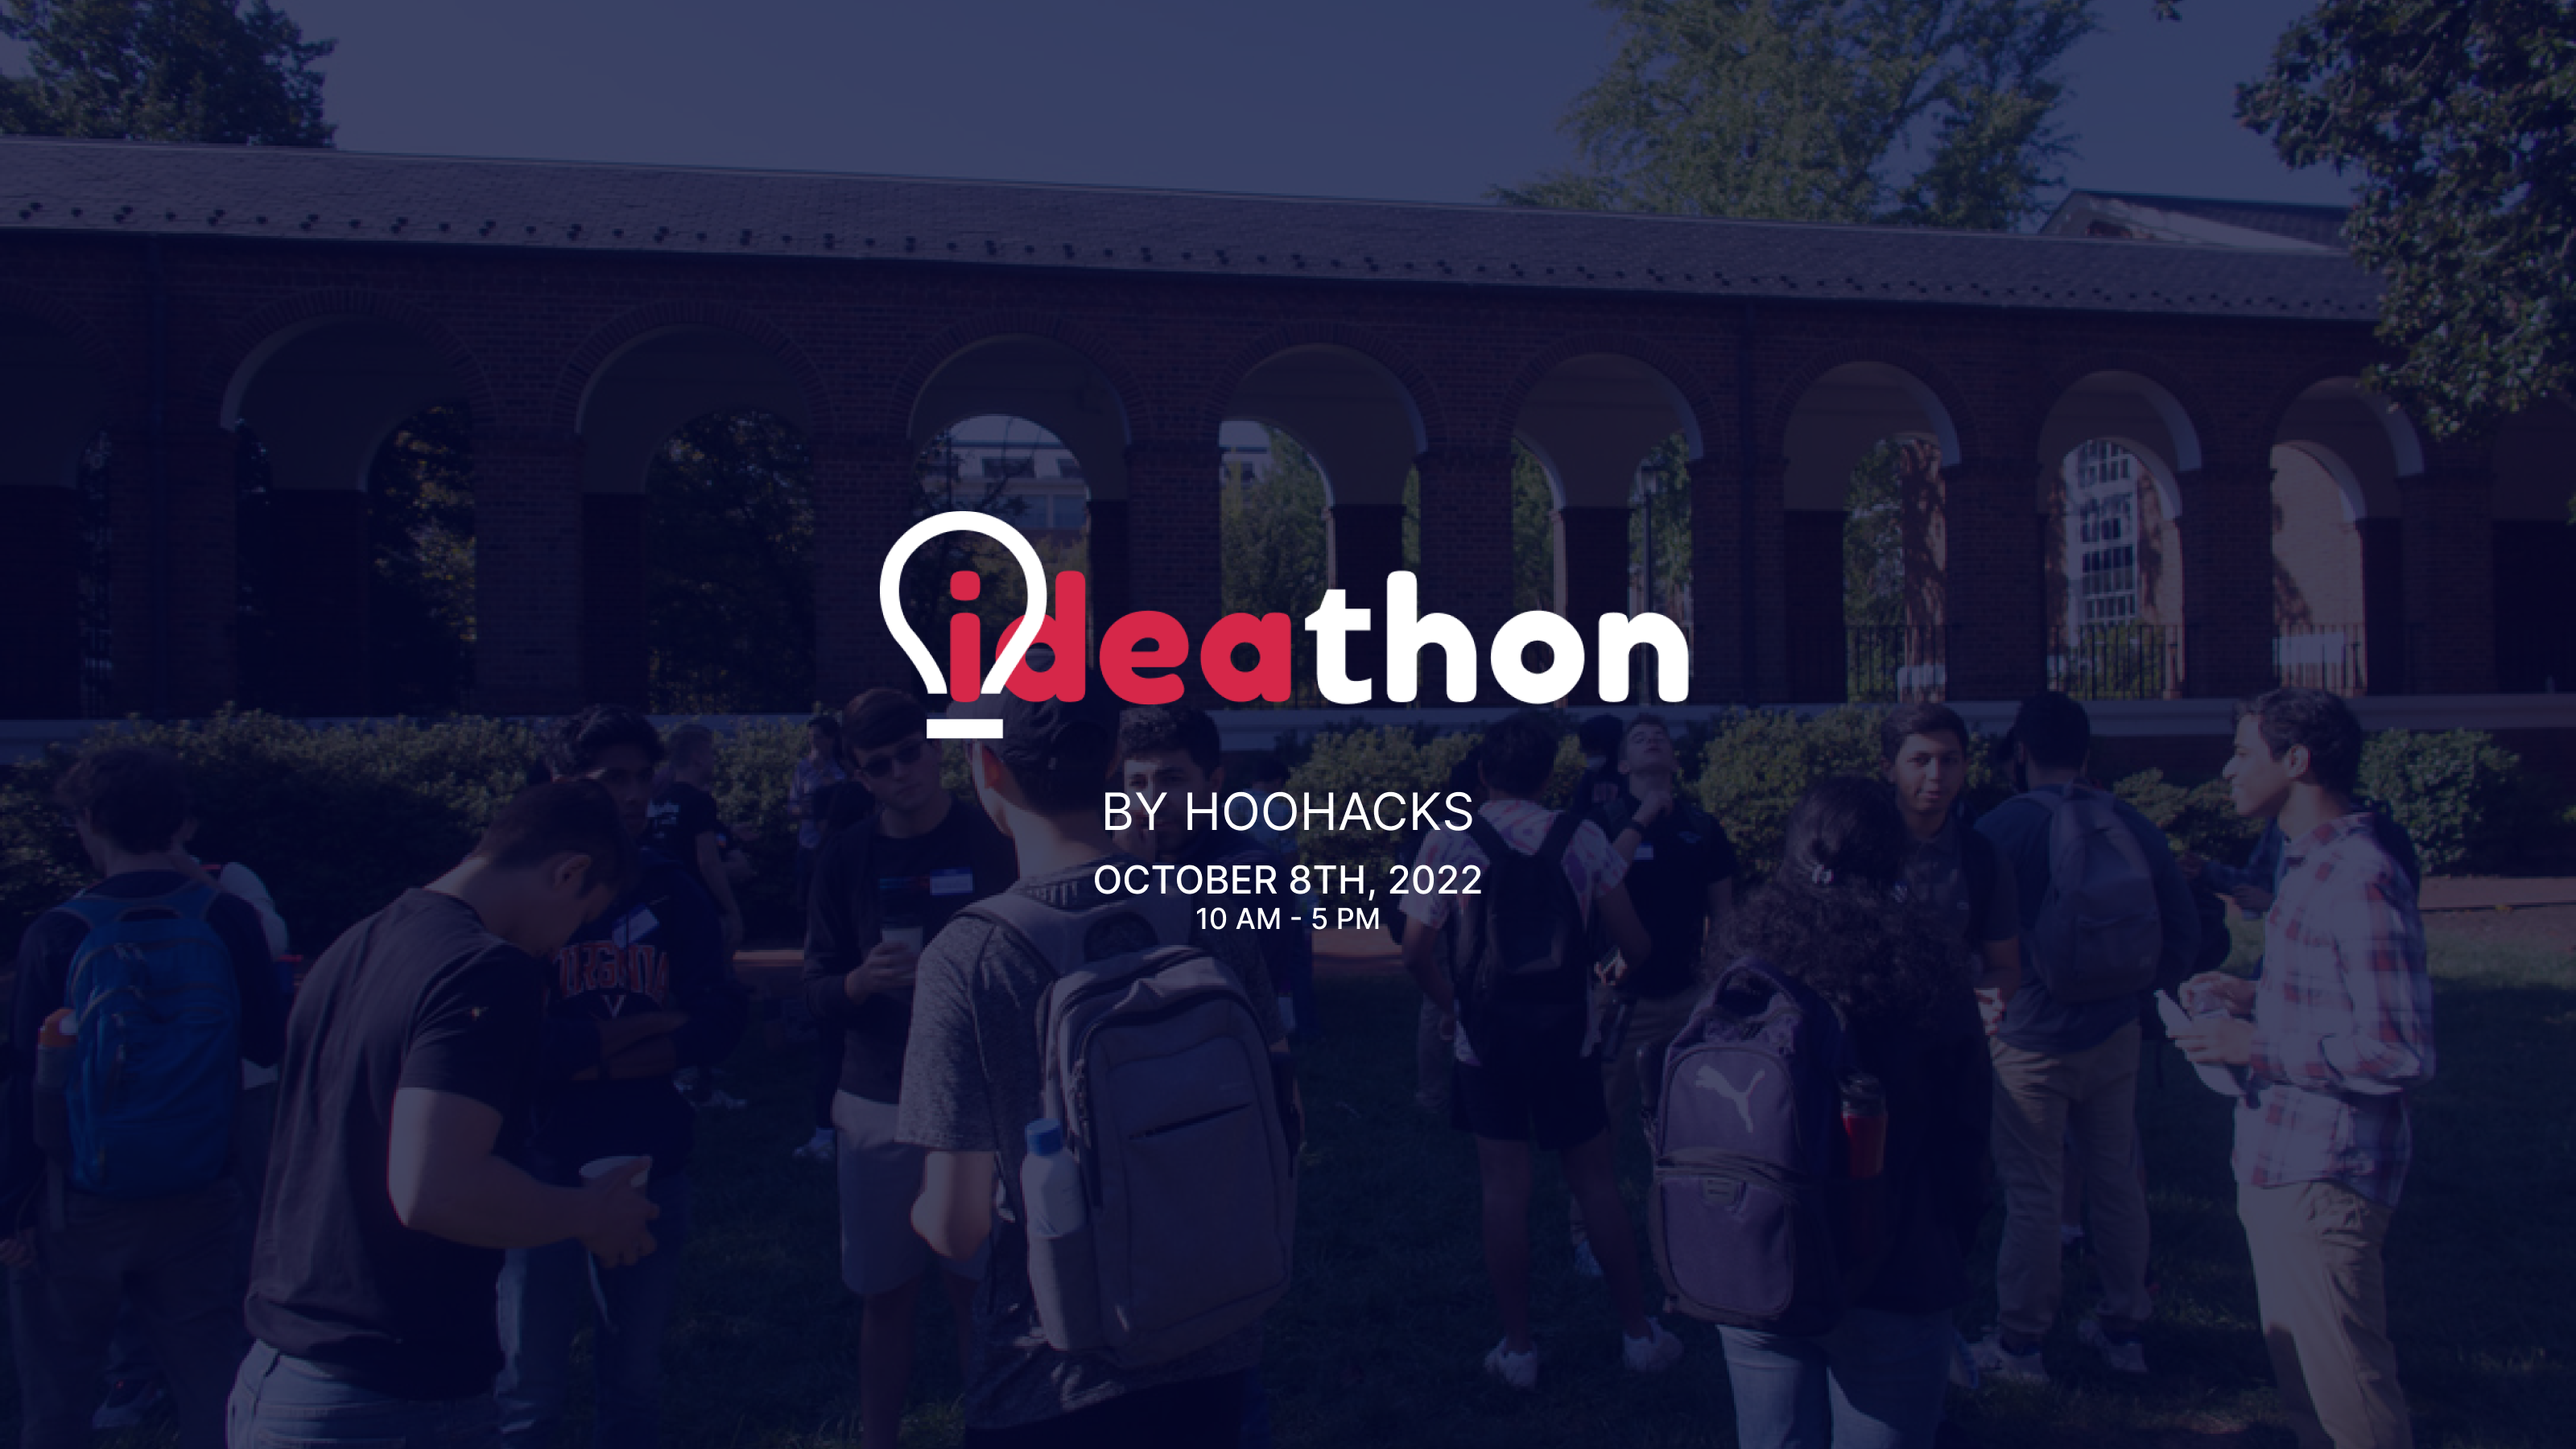
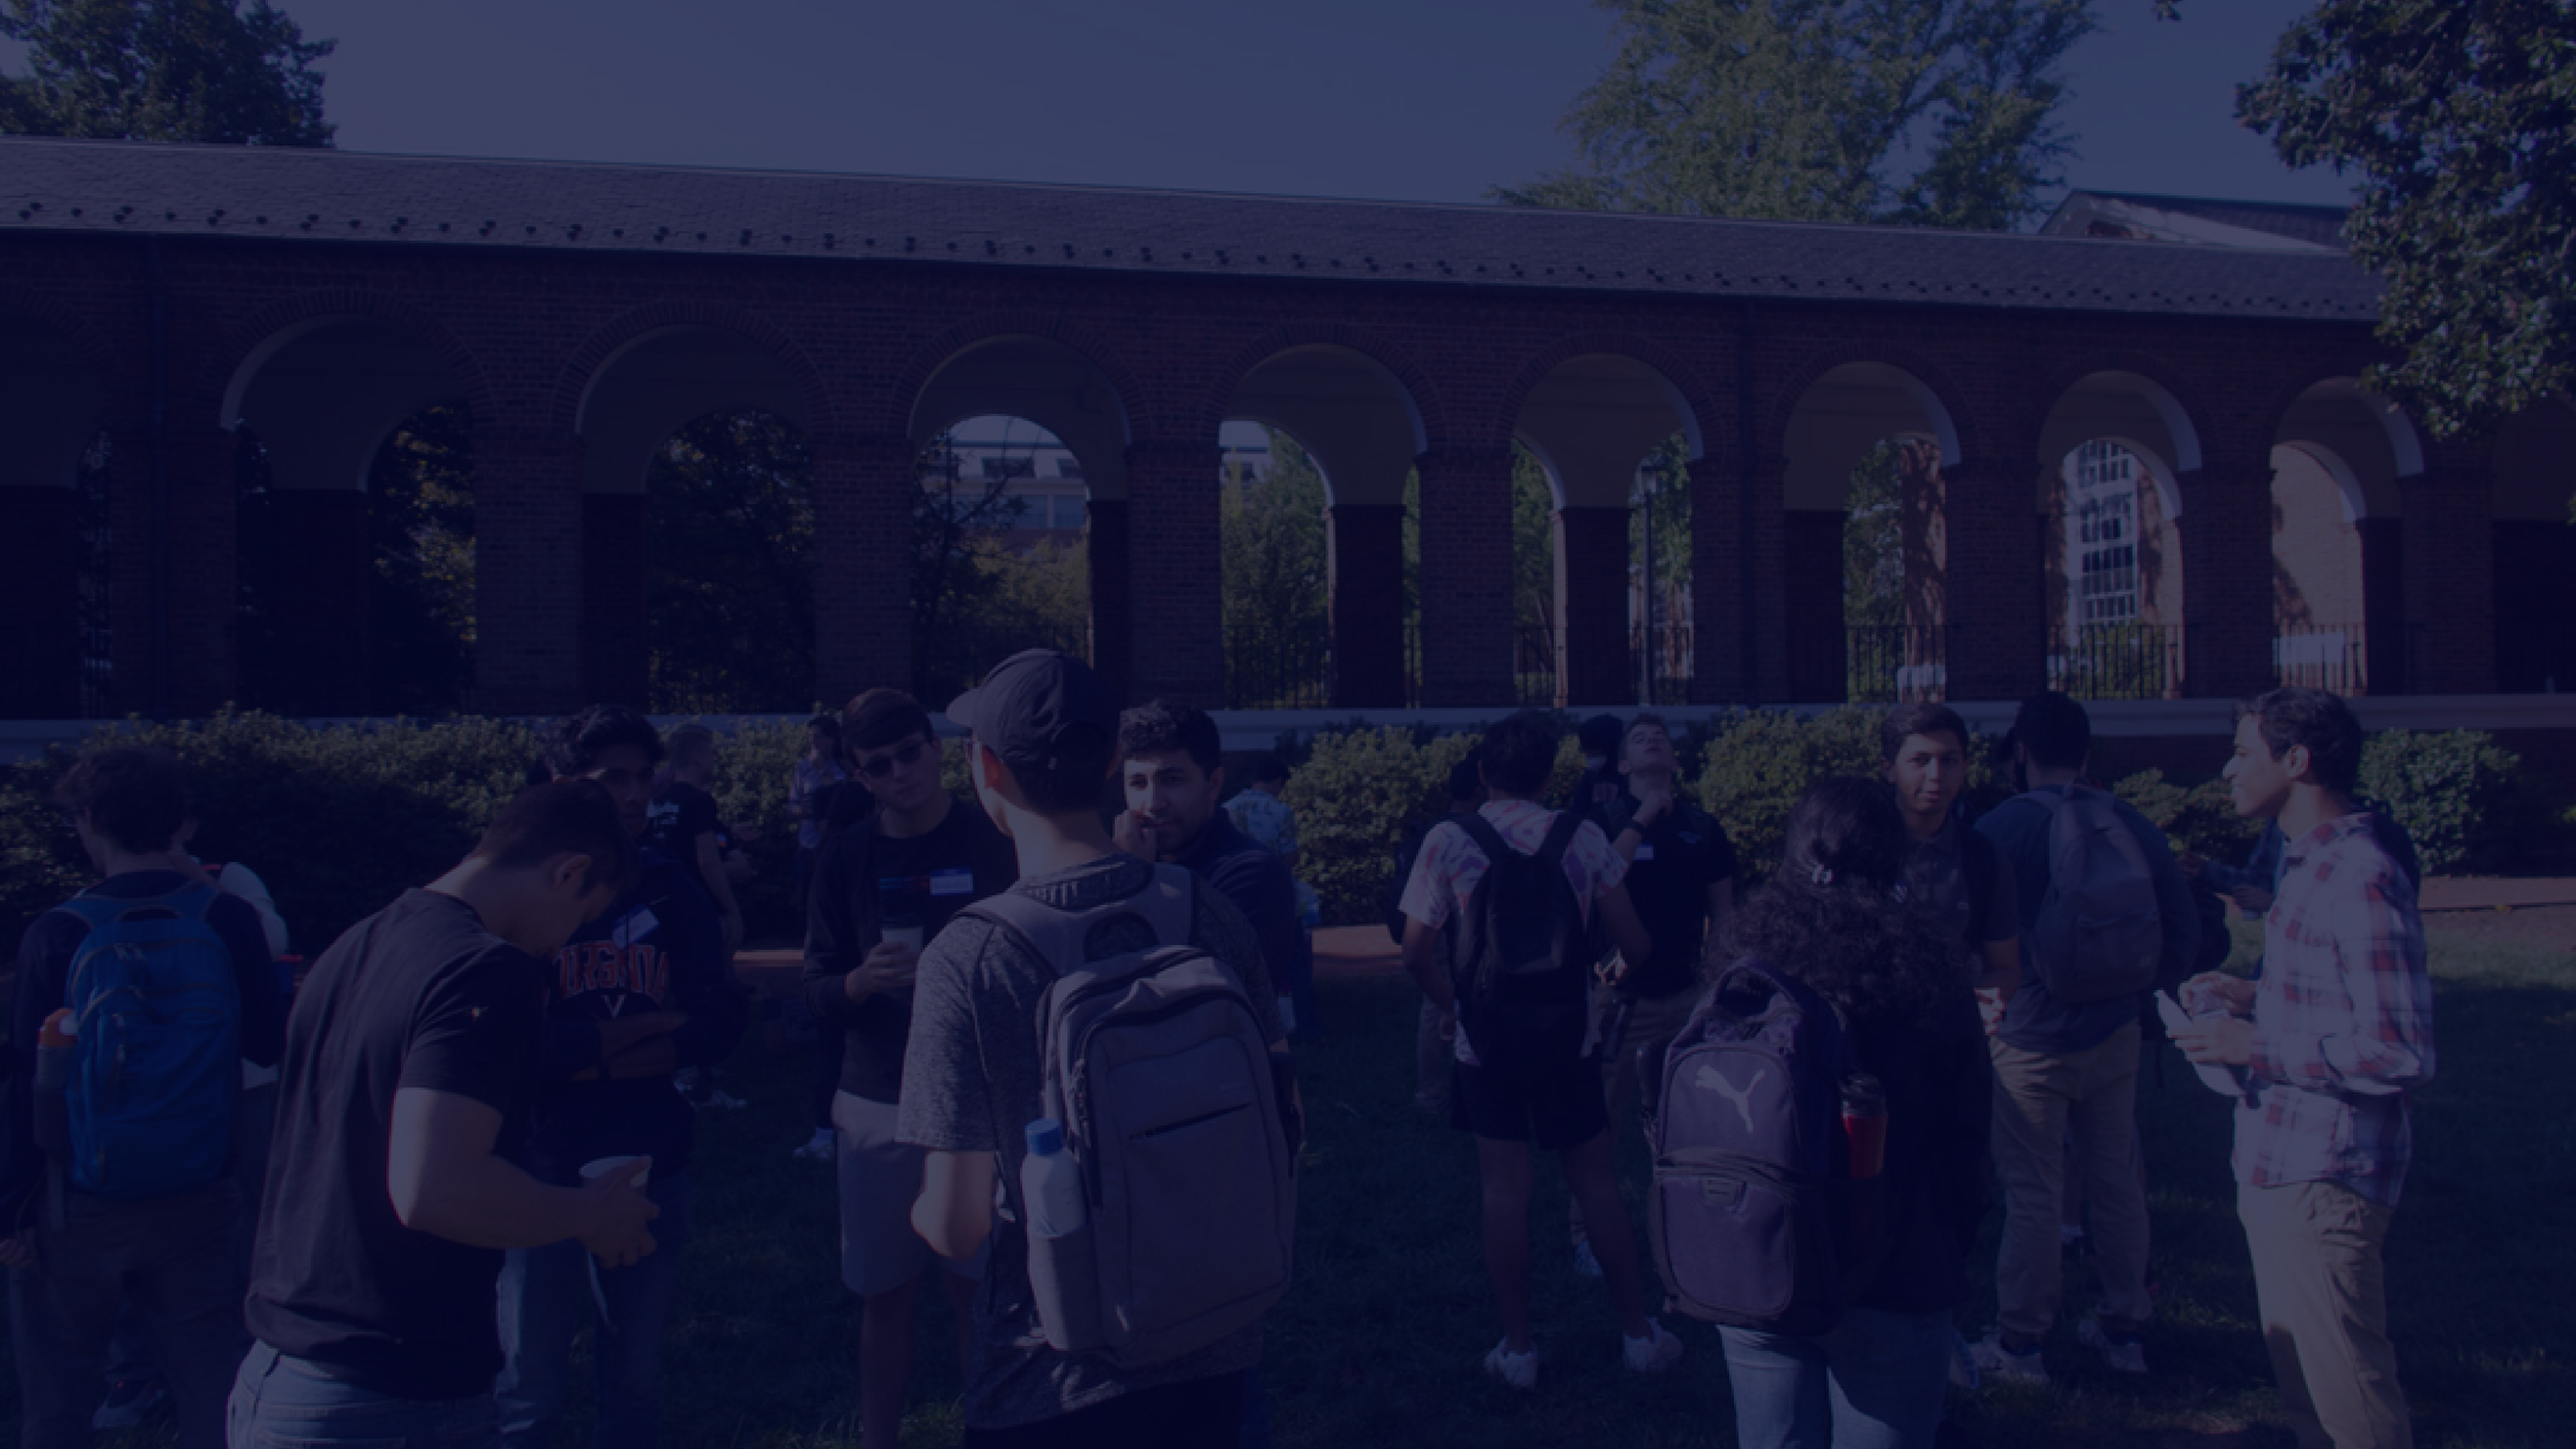
fixed apply button

Changed region(s): [[0.3438, 0.3422, 0.6562, 0.5289], [0.4062, 0.5289, 0.5938, 0.6533]]

diff --git a/index.html b/index.html
@@ -93,13 +93,13 @@
   <section id="intro">
     <div class="intro-container wow fadeIn">
       <div>
-        <!-- <h1 class="mb-4 pb-0" style="margin-bottom: 0px !important;">The First<br><span>Hoohacks + VVF</span></h1>
-          <h1 class="mb-4 pb-0">Ideathon</h1>
-          <p class="mb-4 pb-0">January 31, 2020 at Rouss Robertson Hall, UVA</p> -->
+        <h1 class="mb-4 pb-0" style="margin-bottom: 0px !important;">The Fourth Annual</h1>
+        <h1 class="mb-4 pb-0"><span>Ideathon</span></h1>
+        <p class="mb-4 pb-0">Saturday, October 8, 2022 <br> 10 AM - 5 PM</p>
       </div>
       <!-- <a href="https://www.youtube.com/watch?v=jDDaplaOz7Q" class="venobox play-btn mb-4" data-vbtype="video"
          data-autoplay="true"></a> -->
-      <!-- <a href="#about" class="about-btn scrollto">About The Event</a> -->
+      <a href="https://ideathon.hoohacks.io/apply" class="about-btn scrollto">Apply</a>
     </div>
   </section>
 

diff --git a/css/style.css b/css/style.css
@@ -480,8 +480,8 @@ body.mobile-nav-active #mobile-nav-toggle {
 @media (max-width: 767px) {
   #intro {
     width: 100%;
-    height: 45vh !important;
-    background: url(../img/ideathonheader.png) top center;
+    height: 100vh !important;
+    background: url(../img/ideathon_banner.png) top center;
     background-size: cover;
     overflow: hidden;
     position: relative;
